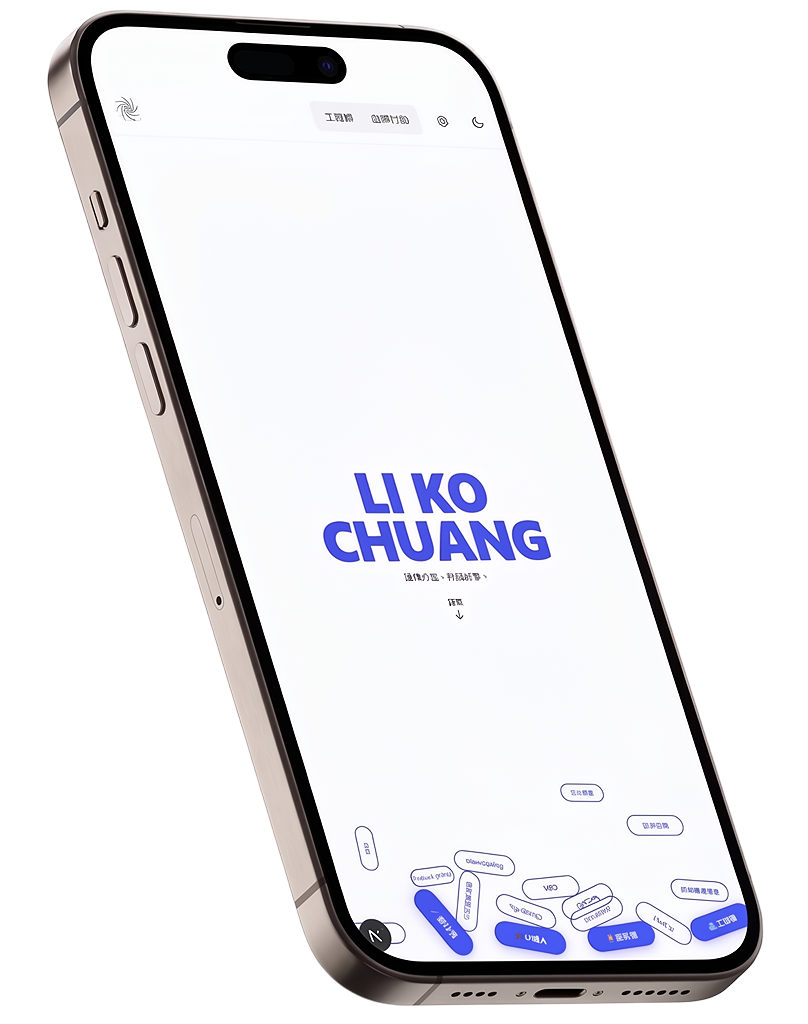
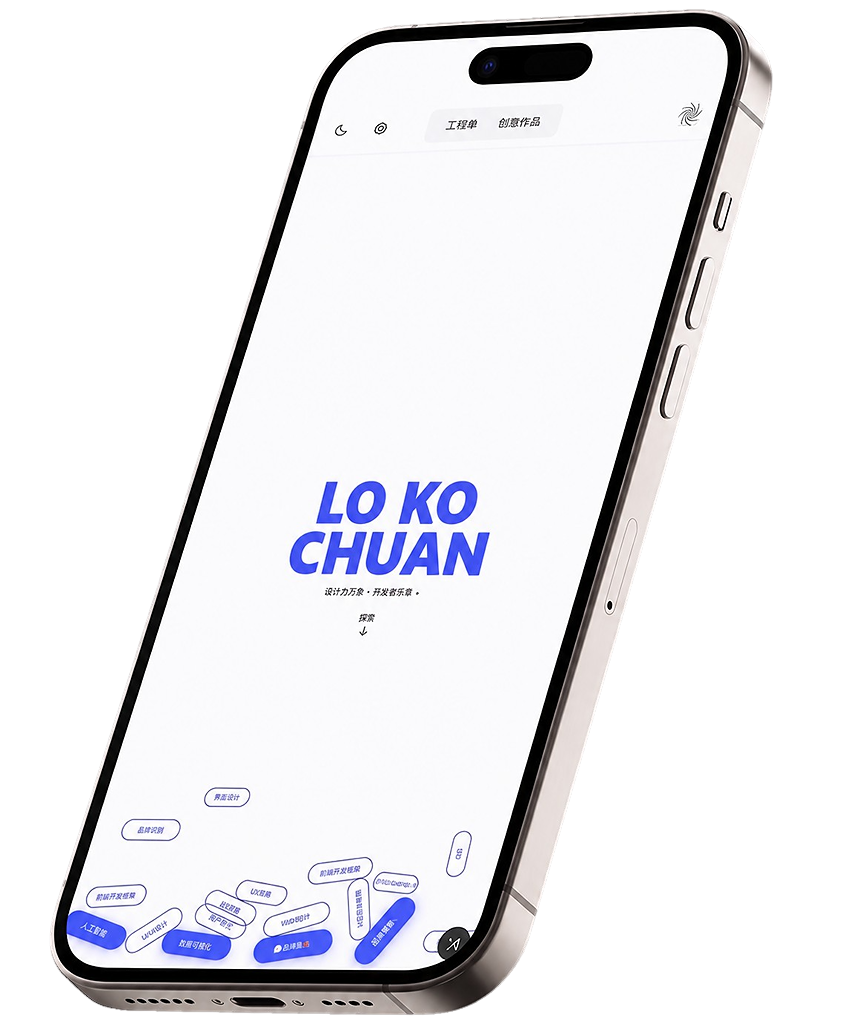
refactor: enhance visual elements and layout in EngineerView and ProjectShowcase
- Updated FloatingGlassCard component for improved styling and clarity in comments.
- Adjusted hero background gradients for better color representation in dark mode.
- Refined layout of ProjectShowcase to include a progress bar for project navigation.
- Modified corner coordinates for device mockups to enhance visual accuracy.
- Replaced outdated image assets with updated versions for better quality.

diff --git a/components/EngineerView.tsx b/components/EngineerView.tsx
@@ -75,8 +75,10 @@ const iconMap = {
   Terminal,
 };
 
-// Frosted-glass floating card with a violet tint, light border, and stacked
-// shadow plates beneath — tilted in 3D so every card faces the same direction.
+// Frosted-glass floating card: a genuinely see-through pane (backdrop-blur
+// doing the work, minimal white tint) so whatever's behind it shows through
+// blurred. Border and inner text follow the normal light/dark convention.
+// Tilted in 3D so every card faces the same direction.
 function FloatingGlassCard({
   className,
   style,
@@ -90,25 +92,19 @@ function FloatingGlassCard({
 }) {
   return (
     <div className="relative transform-gpu transform-3d" style={style}>
-      {/* Stacked layers peeking out below to fake a deck-of-cards shadow */}
+      {/* Main glass surface — no color fill at all, just a border/highlight
+          for definition. The drop shadow is a real CSS box-shadow (not a
+          separate blurred div sitting behind the panel), so it only ever
+          renders outside the card's edges and never bleeds through the
+          transparent interior. */}
       <div
-        aria-hidden
-        className="absolute inset-0 -z-10 translate-y-[9px] scale-[0.965] rounded-3xl border border-black/5 bg-black/4 backdrop-blur-md dark:border-white/10 dark:bg-white/5"
-      />
-      <div
-        aria-hidden
-        className="absolute inset-0 -z-20 translate-y-[18px] scale-[0.92] rounded-3xl border border-black/3 bg-black/2 dark:border-white/6 dark:bg-white/2.5"
-      />
-      {/* Main glass surface */}
-      <div
-        className={`relative rounded-3xl border border-black/10 p-5 text-left backdrop-blur-xl dark:border-white/20 ${className ?? ""}`}
+        className={`relative flex flex-col justify-center rounded-3xl border p-5 text-left ${
+          isDark ? "border-white/20" : "border-black/10"
+        } ${className ?? ""}`}
         style={{
-          backgroundImage: isDark
-            ? "linear-gradient(140deg, rgba(255,255,255,0.14), rgba(168,85,247,0.10))"
-            : "linear-gradient(140deg, rgba(255,255,255,0.85), rgba(255,255,255,0.6))",
           boxShadow: isDark
-            ? "inset 0 1px 0 rgba(255,255,255,0.18), 0 8px 18px -6px rgba(168,85,247,0.5), 0 24px 40px -16px rgba(139,92,246,0.4), 0 48px 70px -30px rgba(120,60,220,0.35)"
-            : "inset 0 1px 0 rgba(255,255,255,0.7), 0 8px 18px -6px rgba(0,0,0,0.12), 0 24px 40px -16px rgba(0,0,0,0.10), 0 48px 70px -30px rgba(0,0,0,0.08)",
+            ? "inset 0 1px 0 rgba(255,255,255,0.15), 0 12px 24px -8px rgba(255,255,255,0.18), 0 30px 45px -20px rgba(255,255,255,0.1)"
+            : "inset 0 1px 0 rgba(255,255,255,0.5), 0 12px 24px -8px rgba(0,0,0,0.18), 0 30px 45px -20px rgba(0,0,0,0.12)",
         }}
       >
         {children}
@@ -179,13 +175,13 @@ export function EngineerView() {
   const cardTilt =
     "perspective(1000px) rotateX(30deg) rotateY(38deg) rotateZ(-20deg)";
 
-  // Day/night hero background: a deep colorful night gradient in dark mode; a
-  // clean white base with no purple in light mode.
+  // Day/night hero background: a deep blue-black night gradient (brand blue
+  // #3250FE, no purple) in dark mode; a clean white base in light mode.
   const heroBackground = isDark
-    ? "radial-gradient(85% 65% at 78% 34%, rgba(232,72,214,0.32), transparent 55%)," +
-      "radial-gradient(75% 55% at 44% 26%, rgba(147,89,241,0.36), transparent 55%)," +
+    ? "radial-gradient(85% 65% at 78% 34%, rgba(50,80,254,0.34), transparent 55%)," +
+      "radial-gradient(75% 55% at 44% 26%, rgba(90,130,255,0.32), transparent 55%)," +
       "radial-gradient(72% 65% at 12% 92%, rgba(250,190,120,0.3), transparent 50%)," +
-      "linear-gradient(180deg, #000000 0%, #0a0510 22%, #1c0f30 55%, #170a24 80%, #0a0508 100%)"
+      "linear-gradient(180deg, #000000 0%, #05070f 22%, #0a1230 55%, #0a0f24 80%, #05060d 100%)"
     : "radial-gradient(100% 90% at 50% 8%, rgba(0,0,0,0.03), transparent 60%)," +
       "linear-gradient(180deg, #ffffff 0%, #f5f5f7 100%)";
   const heroVignette = isDark
@@ -229,6 +225,7 @@ export function EngineerView() {
               backgroundClip: "text",
               WebkitTextFillColor: "transparent",
               color: "transparent",
+              filter: "drop-shadow(0 6px 16px rgba(0,0,0,0.22))",
             }}
           >
             {data.hero.title} {data.hero.titleHighlight}
@@ -253,18 +250,18 @@ export function EngineerView() {
             inside it (not a sibling) — otherwise the bridge's z-20 would
             always paint over this whole subtree regardless of the cards'
             z-30. */}
-        <div className="fade-in delay-300 relative mt-auto h-[440px] w-full md:h-[42vh] md:min-h-[280px]">
+        <div className="fade-in delay-300 relative mt-auto h-[440px] w-full md:h-[42vh] md:min-h-[440px]">
           <div className="relative mx-auto h-full w-full max-w-5xl">
             {/* Left top card — Complete your Profile (slight depth-of-field blur) */}
             <div className="absolute left-0 top-0 z-30 hidden md:block">
               <div className="animate-float" style={{ filter: "blur(0.4px)" }}>
                 <FloatingGlassCard
-                  className="w-[230px]"
+                  className="h-[200px] w-[220px]"
                   style={{ transform: cardTilt }}
                   isDark={isDark}
                 >
                   <div className="flex items-center gap-3">
-                    <span className="flex h-9 w-9 items-center justify-center rounded-full bg-linear-to-br from-fuchsia-400/80 to-violet-500/80">
+                    <span className="flex h-9 w-9 items-center justify-center rounded-full bg-linear-to-br from-blue-400/80 to-[#3250FE]/80">
                       <User className="h-4 w-4 text-white" />
                     </span>
                     <p className="text-sm font-semibold text-gray-900 dark:text-white">
@@ -279,17 +276,17 @@ export function EngineerView() {
             </div>
 
             {/* Left bottom card — Fast processing of requests */}
-            <div className="absolute left-4 z-30 hidden md:block md:bottom-[2vh]">
+            <div className="absolute left-4 top-[216px] z-30 hidden md:block">
               <div className="animate-float" style={{ animationDelay: "1.5s" }}>
                 <FloatingGlassCard
-                  className="w-[240px]"
+                  className="h-[200px] w-[220px]"
                   style={{ transform: cardTilt }}
                   isDark={isDark}
                 >
                   <p className="text-sm font-semibold leading-snug text-gray-900 dark:text-white">
                     Fast processing of requests according
                   </p>
-                  <div className="mt-3 flex items-center gap-2 rounded-full border border-black/10 bg-black/3 px-3 py-2 dark:border-white/10 dark:bg-white/5">
+                  <div className="mt-3 flex items-center gap-2 rounded-full border border-black/10 px-3 py-2 dark:border-white/10">
                     <MessageCircle className="h-3.5 w-3.5 text-gray-400 dark:text-white/60" />
                     <span className="text-xs font-light text-gray-500 dark:text-white/60">
                       How can I help you?
@@ -303,7 +300,7 @@ export function EngineerView() {
             <div className="absolute right-0 top-4 z-30 hidden md:block">
               <div className="animate-float" style={{ animationDelay: "0.8s" }}>
                 <FloatingGlassCard
-                  className="w-[210px]"
+                  className="h-[200px] w-[220px]"
                   style={{ transform: cardTilt }}
                   isDark={isDark}
                 >
@@ -317,8 +314,8 @@ export function EngineerView() {
                         key={plan.name}
                         className={`flex items-center justify-between rounded-xl border px-3 py-2.5 ${
                           plan.best
-                            ? "border-black/10 bg-black/5 dark:border-white/25 dark:bg-white/15"
-                            : "border-black/6 bg-black/2 dark:border-white/10 dark:bg-white/4"
+                            ? "border-black/15 dark:border-white/30"
+                            : "border-black/6 dark:border-white/10"
                         }`}
                       >
                         <div>

diff --git a/components/ProjectShowcase.tsx b/components/ProjectShowcase.tsx
@@ -78,8 +78,8 @@ const DEVICES: Device[] = [
     corners: [
       [0.2009, 0.27067],
       [0.71296, 0.28227],
-      [0.85485, 0.77515],
-      [0.30418, 0.80063],
+      [0.85485, 0.75515],
+      [0.30418, 0.79063],
     ],
   },
   {
@@ -289,10 +289,24 @@ export function ProjectShowcase({
             isDark ? "text-white/40" : "text-gray-400"
           }`}
         >
-          <span className="justify-self-start">
-            {String(currentIndex + 1).padStart(2, "0")} /{" "}
-            {String(projects.length).padStart(2, "0")}
-          </span>
+          <div className="w-fit justify-self-start">
+            <span>
+              {String(currentIndex + 1).padStart(2, "0")} /{" "}
+              {String(projects.length).padStart(2, "0")}
+            </span>
+            <div
+              className={`mt-1.5 h-0.5 w-full rounded-full ${
+                isDark ? "bg-white/10" : "bg-gray-200"
+              }`}
+            >
+              <div
+                className={`h-full rounded-full transition-all duration-100 ${
+                  isDark ? "bg-white" : "bg-gray-900"
+                }`}
+                style={{ width: `${progress}%` }}
+              />
+            </div>
+          </div>
 
           {/* Device switcher, flanked by prev/next project arrows */}
           <div className="justify-self-center flex items-center gap-3 normal-case tracking-normal">
@@ -355,18 +369,6 @@ export function ProjectShowcase({
           </div>
 
           <span className="justify-self-end">PROJECT SHOWCASE</span>
-        </div>
-        <div
-          className={`absolute inset-x-0 bottom-0 h-0.5 ${
-            isDark ? "bg-white/10" : "bg-gray-200"
-          }`}
-        >
-          <div
-            className={`h-full transition-all duration-100 ${
-              isDark ? "bg-white" : "bg-gray-900"
-            }`}
-            style={{ width: `${progress}%` }}
-          />
         </div>
       </div>
     </div>
